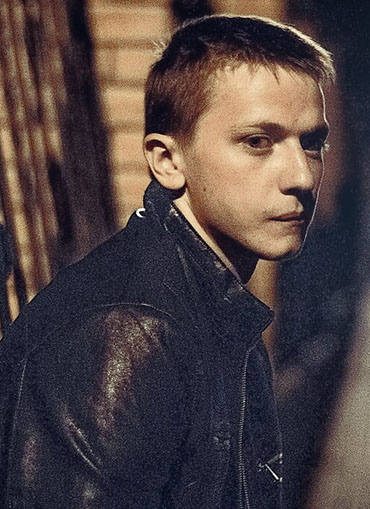
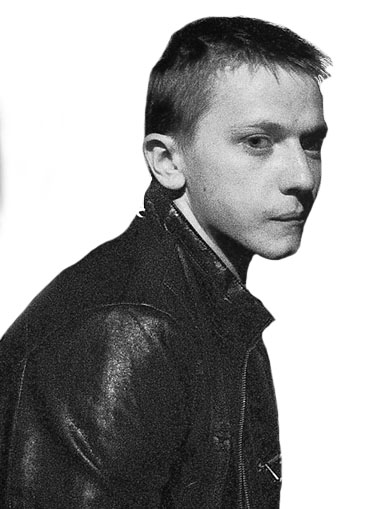
Fotos

diff --git a/about.html b/about.html
@@ -94,7 +94,7 @@
                             </div>
                             <div class="slide">
                                 <div class="face face1">
-                                    <img src="img/team_2.png" alt="">
+                                    <img src="img/Semen.jpg" alt="">
                                 </div>
                                 <div class="face face2">
                                     <div class="information">
@@ -134,7 +134,7 @@
                             </div>
                             <div class="slide">
                                 <div class="face face1">
-                                    <img src="img/team_4.png" alt="">
+                                    <img src="img/Maksim.jpg" alt="">
                                 </div>
                                 <div class="face face2">
                                     <div class="information">
@@ -209,6 +209,26 @@
                                             </ul>
                                         </div>
                                         <p>Certified Web Application Development Specialist</p>
+                                    </div>
+                                </div>
+                            </div>
+                            <div class="slide">
+                                <div class="face face1">
+                                    <img src="img/Vasiliy.jpg" alt="">
+                                </div>
+                                <div class="face face2">
+                                    <div class="information">
+                                        <h3>Vasily Tysyanchyn</h3>
+                                        <h5>Senior Full-stack Web developer</h5>
+                                        <div class="socials">
+                                            <ul class="socialIcons">
+                                                <li><a href="#"><i class="fab fa-facebook-f"></i></a></li>
+                                                <li><a href="#"><i class="fab fa-linkedin-in"></i></a></li>
+                                                <li><a href="#"><i class="fab fa-instagram"></i></a></li>
+                                                <li><a href="#"><i class="fab fa-youtube"></i></a></li>
+                                            </ul>
+                                        </div>
+                                        <p>Strong Knowledge of the web development area. Main stack Node, MongoDB, Vue.</p>
                                     </div>
                                 </div>
                             </div>
